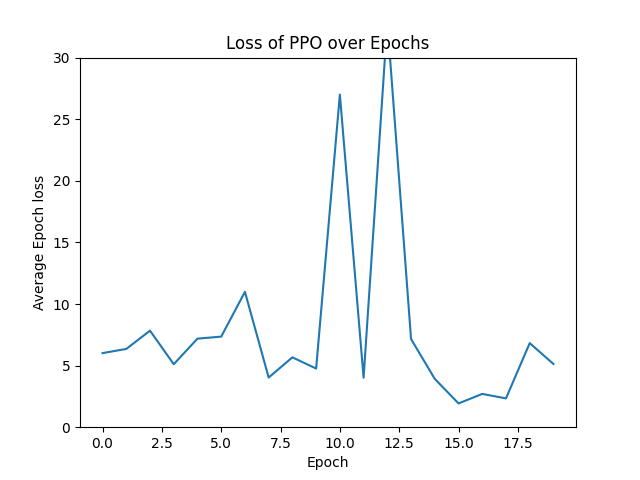
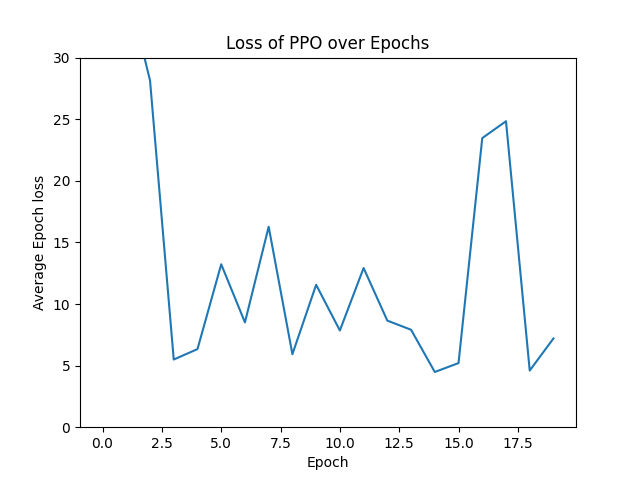
stuff

diff --git a/src/ppo.py b/src/ppo.py
@@ -376,7 +376,7 @@ def train_set(env):
     losses = {}
     rewards = {}
     accuracy = {}
-    for alpha in [0.005, 0.01, 0.02, 0.05]:
+    for alpha in [0.0001,0.001, 0.005, 0.01]:
         for gamma in [0.925, 0.95, 0.99]:
             l, r, a = train(env, alpha, gamma, 200000)
 
@@ -410,9 +410,9 @@ def train_set(env):
     plt.legend()
     plt.savefig(f"../model_plots/combined_PPO_accuracy_over_epochs.png")
     plt.close()
-    # test(env, actor_model='ppo_actor.pth')
+    # test(env, actor_model='ppo_actor.pth'
 
 
 if __name__ == "__main__":
     env = RewardModelSimulator()
-    train(env, 0.01, 0.99, 100000)
+    train_set(env)
